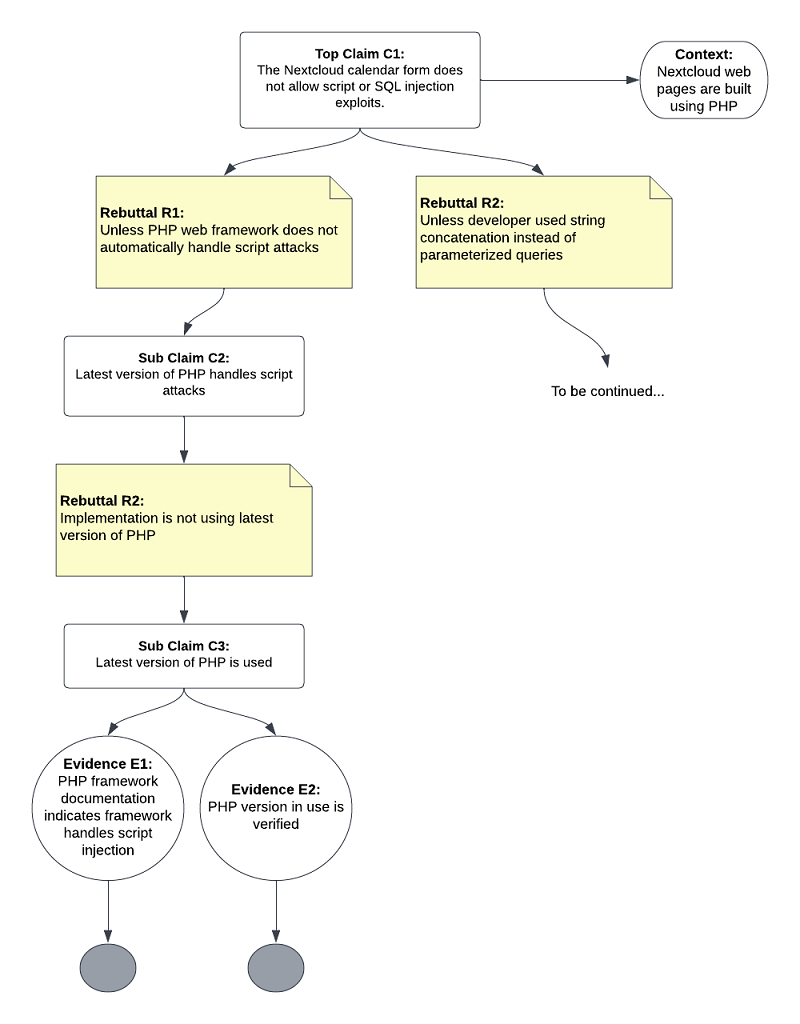
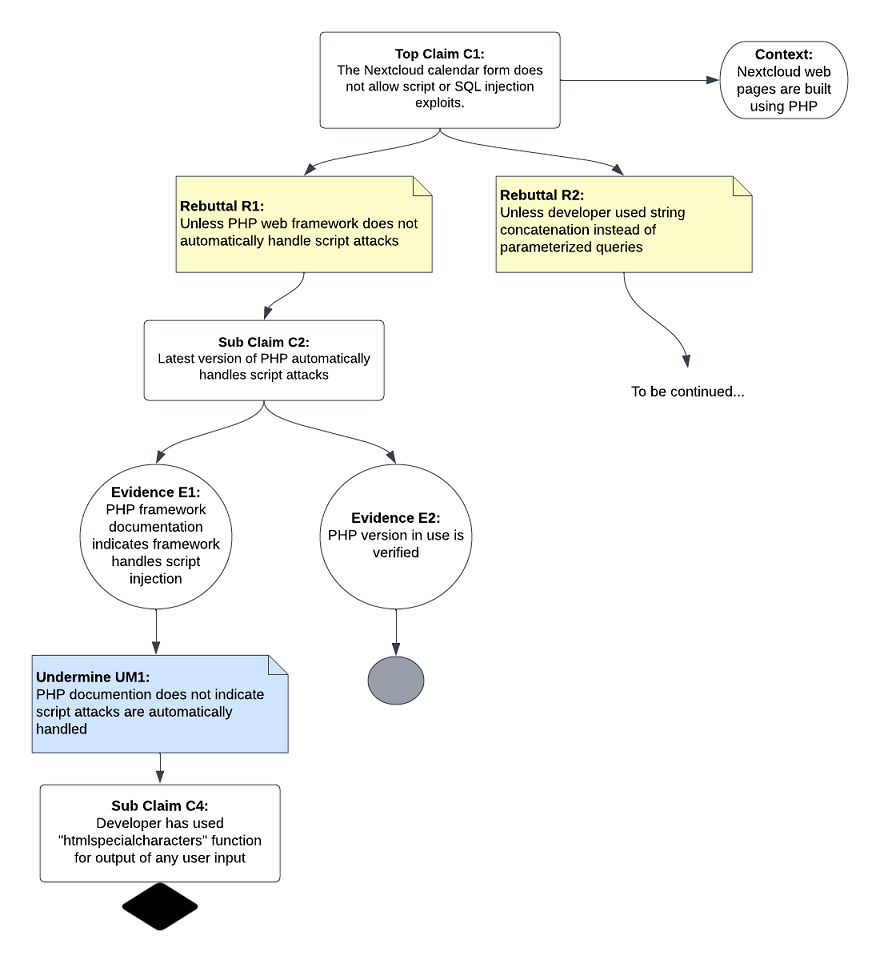
claim 1

diff --git a/AssuranceCasesforSSE_Assignment3.md b/AssuranceCasesforSSE_Assignment3.md
@@ -16,6 +16,9 @@ Top-Level Claim #1
 
 ![image](https://github.com/unosec/project/blob/main/images/JSassignment3.png)
 
+
+<!-- https://www.php.net/manual/en/function.htmlspecialchars.php -->
+
 Top-Level Claim #2
 -
 [TBD]
